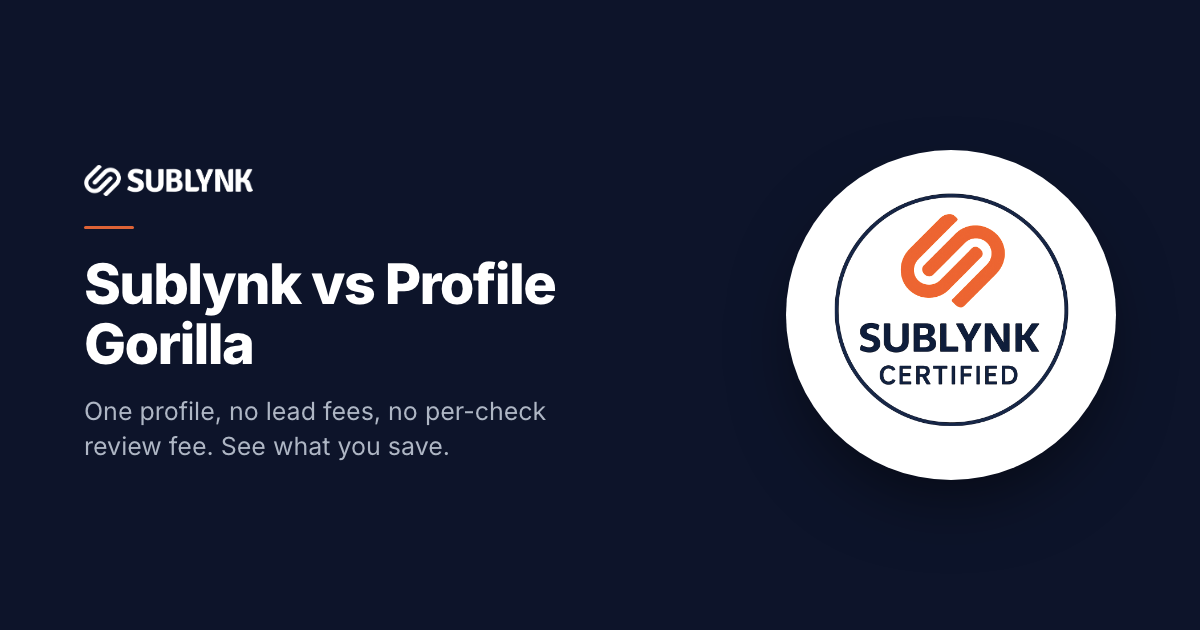
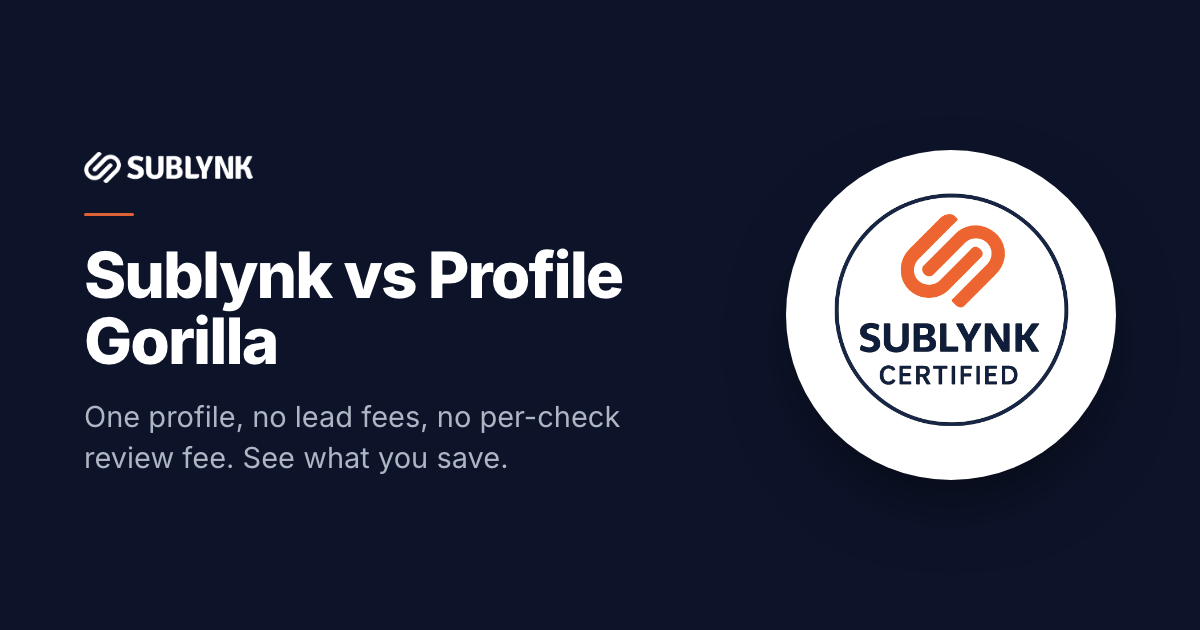
OG cards: larger headline + subline

Changed region(s): [[0.0617, 0.3921, 0.5242, 0.6032], [0.0617, 0.6333, 0.5242, 0.754], [0.0617, 0.2413, 0.2158, 0.3619]]

diff --git a/og/concept-b.html b/og/concept-b.html
@@ -8,8 +8,8 @@ body{background:#0d142a;color:#fff;font-family:'Inter',-apple-system,Arial,sans-
 .col{flex:1;min-width:0;display:flex;flex-direction:column;justify-content:center}
 .logo{height:31px;width:auto;align-self:flex-start;margin-bottom:30px}
 .rule{width:50px;height:3px;background:#dd6336;border-radius:2px;margin-bottom:26px}
-h1{font-size:56px;font-weight:800;line-height:1.06;letter-spacing:-.03em}
-.sub{font-size:25px;line-height:1.42;color:#aeb6c4;font-weight:400;margin-top:20px;max-width:530px}
+h1{font-size:64px;font-weight:800;line-height:1.04;letter-spacing:-.03em}
+.sub{font-size:29px;line-height:1.4;color:#aeb6c4;font-weight:400;margin-top:22px;max-width:540px}
 .coin{flex:0 0 auto;width:330px;height:330px;border-radius:50%;background:#fff;display:flex;align-items:center;justify-content:center;box-shadow:0 30px 70px -18px rgba(0,0,0,.55)}
 .coin img{width:292px;height:292px;display:block}
 </style></head><body><div class="wrap">
